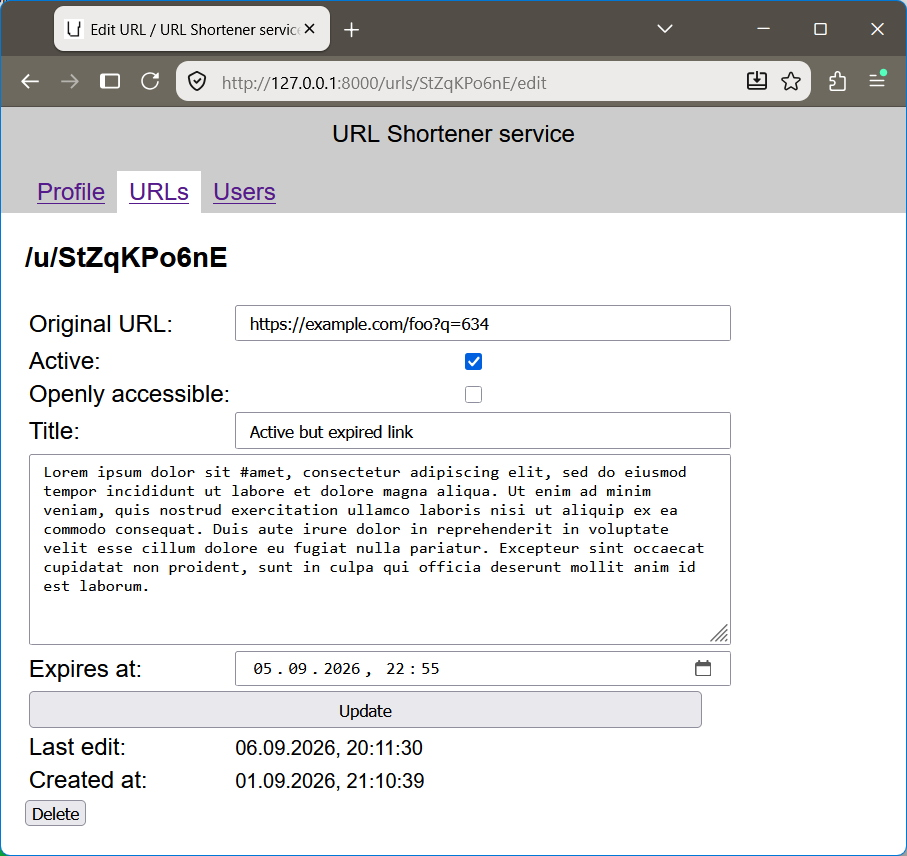
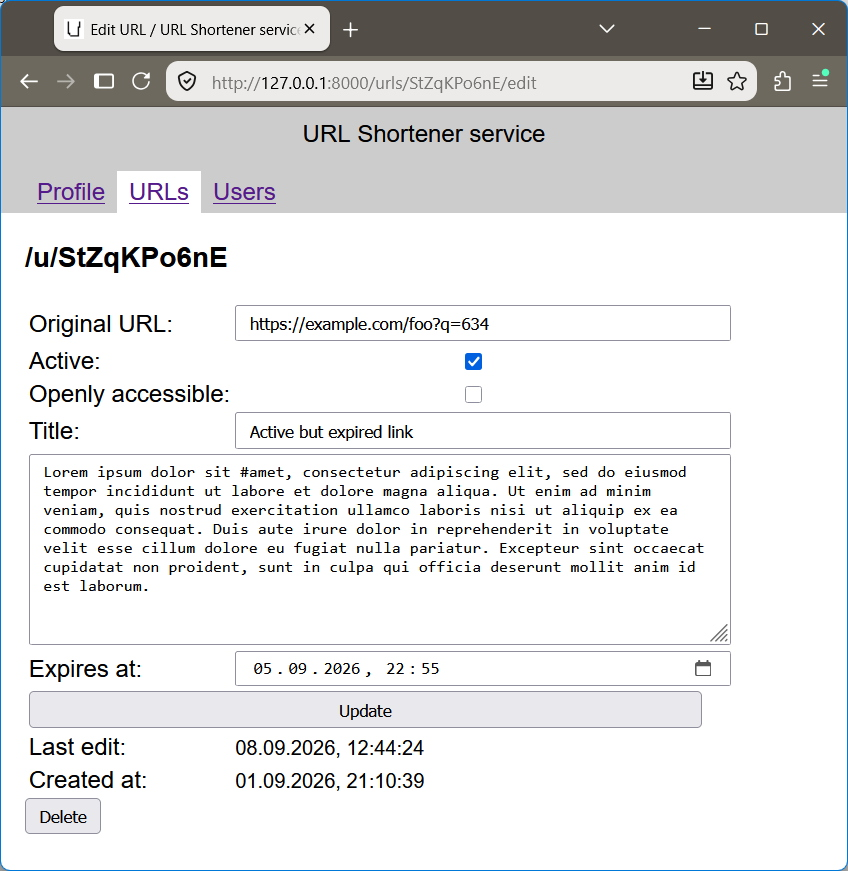
Frontend improvements + Minor backend corrections

diff --git a/frontend/user/url-list.html b/frontend/user/url-list.html
@@ -13,11 +13,14 @@
 
     .url-container li::marker {
         color: #f00;
-        font-size: 25pt;
+        font-size: 15pt;
+        font-weight: 600;
+        content: 'off ';
     }
 
     .url-container li[active]::marker {
-        color: #0f0;
+        color: #0d0;
+        content: 'on ';
     }
 
     .url-item {
@@ -58,6 +61,11 @@
 
     .sort-container input:checked + .sort-label .sort-arrow {
         clip-path: polygon(50% 0%, 0% 100%, 100% 100%);
+    }
+
+    a.ellipsis-text {
+        display: inline-block;
+        max-width: 50%;
     }
 </style>
 <script lang="javascript">
@@ -105,38 +113,43 @@
 {%- endblock -%}
 
 {%- block page_content -%}
-<button type="button" onclick="debug_add_url()">[DEBUG] Add a URL</button>
-<form method="get" action="/urls" autocomplete="off">
-    <input type="search" name="q" placeholder="Let's look for..." value="{{- query | e -}}" />
-    <select name="sort">
-        {%- macro sort_sel(id, title) -%}
-        <option value="{{ id }}"{{ ' selected' if id == sort else '' }}>{{ title }}</option>
-        {%- endmacro %}
-        {#- How can we use this with URL_SORTING_CRITERIA ? -#}
-        {{ sort_sel('id',      'URL ID')           }}
-        {{ sort_sel('created', 'Creation time')    }}
-        {{ sort_sel('updated', 'Last edit time')   }}
-        {{ sort_sel('expires', 'Expiration time')  }}
-        {{ sort_sel('title',   'Title')            }}
-        {{ sort_sel('url',     'Original address') }}
-    </select>
-    <label class="sort-container">
-        <input type="checkbox" name="asc" {{ 'checked' if sort_asc else '' }}>
-        <span class="sort-label">
-            <span class="sort-arrow"></span>
-        </span>
-    </label>
-    <input type="submit" value="Search!" />
-</form>
+<div>
+    <h3>
+        All links
+        <input type="button" onclick="debug_add_url()" value="[DEBUG] Add a URL">
+    </h3>
+</div>
+<div>
+    <form method="get" action="/urls" autocomplete="off">
+        <input type="search" name="q" placeholder="Let's look for..." value="{{- query | e -}}" />
+        <select name="sort">
+            {%- macro sort_sel(id, title) -%}
+            <option value="{{ id }}"{{ ' selected' if id == sort else '' }}>{{ title }}</option>
+            {%- endmacro %}
+            {#- How can we use this with URL_SORTING_CRITERIA ? -#}
+            {{ sort_sel('id',      'URL ID')           }}
+            {{ sort_sel('created', 'Creation time')    }}
+            {{ sort_sel('updated', 'Last edit time')   }}
+            {{ sort_sel('expires', 'Expiration time')  }}
+            {{ sort_sel('title',   'Title')            }}
+            {{ sort_sel('url',     'Original address') }}
+        </select>
+        <label class="sort-container">
+            <input type="checkbox" name="asc" {{ 'checked' if sort_asc else '' }}>
+            <span class="sort-label">
+                <span class="sort-arrow"></span>
+            </span>
+        </label>
+        <input type="submit" value="Search!" />
+    </form>
+</div>
 <ul class="url-container">
     {%- for url in urls -%}
         <li {% if url.is_active and (not url.expires_at or now_UTC < url.expires_at) %}active{% endif %}>
             <div class="url-item">
-                <div>
-                    {{- '🔓' if url.is_open_access else '🔒' -}}
+                <div class="ellipsis-text">
+                    {{- '🌍' if url.is_open_access else '🔒' -}}
                     <a href="/urls/{{- url.id -}}/overview"><code>[u/{{ url.id }}]</code> <span>{{ url.title | e }}</span></a>
-                    [<a href="/urls/{{- url.id -}}/edit">edit</a>]
-                    [<a href="/u/{{- url.id -}}" target="_blank" rel="noreferrer">visit</a>]
                 </div>
                 <div class="ellipsis-text">
                     <small class="url-item-description">
@@ -153,5 +166,10 @@
         <p>No addresses found.</p>
     {%- endfor -%}
 </ul>
-<p>Page: #{{ page + 1 }} @ {{ page_size }} links per page.</p>
+<p>
+    {% set search_suffix = ('&sort=' + sort if sort else '') + ('&asc=on' if sort_asc else '') + ('&q=' + query | e if query else '') %}
+    <a class="{{ 'hidden' if page == 0 else '' }}" href="/urls?p={{ page - 1 }}{{ search_suffix }}">&lArr; Prev</a>
+    Page #{{ page + 1 }}.
+    <a class="{{ 'hidden' if urls | length < page_size else '' }}" href="/urls?p={{ page + 1 }}{{ search_suffix }}">Next &rArr;</a>
+</p>
 {%- endblock -%}

diff --git a/frontend/user/profile.html b/frontend/user/profile.html
@@ -5,6 +5,12 @@
 {% block title %}Profile / {{ super() }}{% endblock %}
 
 {%- block head -%}
+<style>
+    table {
+        border: 1px solid #000;
+        padding: 15px;
+    }
+</style>
 <script lang="javascript">
     var patch_version = parseInt('{{ user.version }}');
 
@@ -66,26 +72,39 @@
 {%- endblock -%}
 
 {%- block page_content -%}
-<h4>Profile</h4>
-<p>Greetings, {{ user.name | e }}.</p>
-<form onsubmit="return update_profile(event);" autocomplete="off">
-    <div>
-        <label for="name">New name:</label>
-        <input type="text" name="name" placeholder="Your new name" />
-    </div>
-    <div>
-        <label for="email">New E-mail:</label>
-        <input type="email" name="email" placeholder="Your new email" />
-    </div>
-    <div>
-        <label for="password">New password:</label>
-        <input type="password" name="password" placeholder="Your new password" />
-    </div>
-    <input type="submit" value="Update">
-</form>
-<div id="msg"></div>
+<div>
+    <h3>Profile</h3>
+</div>
+<div>
+    <p>Greetings, {{ user.name | e }}.</p>
+    <form onsubmit="return update_profile(event);" autocomplete="off">
+        <table>
+            <tr>
+                <td>New name:</td>
+                <td><input type="text" name="name" placeholder="Your new name" /></td>
+            </tr>
+            <tr>
+                <td>New E-mail:</td>
+                <td><input type="email" name="email" placeholder="Your new email" /></td>
+            </tr>
+            <tr>
+                <td>New password:</td>
+                <td><input type="password" name="password" placeholder="Your new password" /></td>
+            </tr>
+            <tr>
+                <td colspan="2" style="height: 15px;"></td>
+            </tr>
+            <tr>
+                <td colspan="2"><input type="submit" value="Update" style="width: 100%;"></td>
+            </tr>
+        </table>
+    </form>
+    <div id="msg"></div>
+</div>
 <p>
-    <i>Last update: <script lang="javascript"> localize_time('{{- user.updated_at -}}'); </script></i>
+    <small>
+        <i>Last updated: <script lang="javascript"> localize_time('{{- user.updated_at -}}'); </script></i>
+    </small>
 </p>
 <form method="post" action="/api/v1/logout">
     <button type="submit">Log-out</button>

diff --git a/frontend/admin/user-list.html b/frontend/admin/user-list.html
@@ -4,15 +4,57 @@
 
 {% block title %}Users / {{ super() }}{% endblock %}
 
+{% block head %}
+<style>
+    .user-list {
+        column-count: 1;
+        gap: 2.5em;
+    }
+
+    @media (min-width: 27em) {
+        .user-list {
+            column-count: 2;
+        }
+    }
+
+    @media (min-width: 37em) {
+        .user-list {
+            column-count: 3;
+        }
+    }
+
+    @media (min-width: 47em) {
+        .user-list {
+            column-count: 4;
+        }
+    }
+
+    @media (min-width: 57em) {
+        .user-list {
+            column-count: 5;
+        }
+    }
+
+    .user-list li {
+        padding-bottom: 0.7em;
+    }
+</style>
+{% endblock %}
+
 {%- block page_content -%}
-<ul>
-    {%- for user in users -%}
+<div>
+    <h3>All users</h3>
+</div>
+<div>
+    <ul class="user-list">
+        {%- for user in users -%}
         <li>
-            <div>
+            <div class="ellipsis-text">
                 <a href="/user/{{- user.id -}}/profile">{{- user.name | e -}}</a>
             </div>
         </li>
-    {%- endfor -%}
-</ul>
-<p>Page: #{{ page + 1 }} @ {{ page_size }} links per page.</p>
+        {%- endfor -%}
+    </ul>
+    <p>Page: #{{ page + 1 }} @ {{ page_size }} links per page.</p>
+</div>
 {%- endblock -%}

diff --git a/frontend/user/url-overview.html b/frontend/user/url-overview.html
@@ -4,15 +4,42 @@
 
 {% block title %}URL Overview / {{ super() }}{% endblock %}
 
+{%- block head -%}
+<style>
+    td {
+        vertical-align: top;
+    }
+</style>
+{% endblock %}
+
 {%- block page_content -%}
+<div>
+    <h3>
+        Overview:
+        <a href="/urls/{{- url.id -}}/edit"><input type="button" value="Edit"></a>
+        <a href="/u/{{- url.id -}}" target="_blank" rel="noreferrer"><input type="button" value="Visit"></a>
+    </h3>
+</div>
+<div>
+    <table>
+        <tr>
+            <td>ID:</td>
+            <td>{{ url.id }}</td>
+        </tr>
+        <tr>
+            <td>Title:</td>
+            <td>{{ url.title | e }}</td>
+        </tr>
+        <tr>
+            <td>Description:</td>
+            <td><small>{{ url.description | e }}</small></td>
+        </tr>
+    </table>
+</div>
 <h3>
-    Overview:
+    Statistics:
 </h3>
-<p>
-    {{ url.id }}
-    {{ url.title }}
-    {{ url.description }}
-    {{ url.created_at }}
-    {{ url.updated_at }}
-</p>
+<div>
+    <p>TODO</p>
+</div>
 {%- endblock -%}

diff --git a/static/common.css b/static/common.css
@@ -45,7 +45,7 @@ nav {
     padding-bottom: 0.5em;
 }
 
-form input, form textarea {
+input, button, textarea, select {
     padding: 5px 10px;
 }
 

diff --git a/backend/frontend/urls.py b/backend/frontend/urls.py
@@ -1,4 +1,4 @@
-from typing import Annotated, Literal
+from typing import Annotated
 from uuid import UUID
 
 from fastapi import APIRouter, Depends, HTTPException, Path, Query, Request, status
@@ -31,7 +31,7 @@ async def url_search(
     query: Annotated[str, Query(alias='q')] = '',
     page: Annotated[str, Query(alias='p')] = '0',
     sort: Annotated[str, Query()] = 'updated',
-    asc: Annotated[Literal['off', 'on'], Query(pattern='on|off')] = 'off',
+    asc: Annotated[str, Query()] = 'off',
     user_id: Annotated[UUID | None, Query(min_length=1, max_length=38)] = None,  # MS GUID format
 ):
     # parameter cleanup
@@ -40,7 +40,7 @@ async def url_search(
     query      = query[:500].strip()
     sort       = sort.strip().lower()
     sort_asc   = asc == 'on'
-    page_size  = 50
+    page_size  = 20
 
     # access checks
     owner = user_id if user_id and user.is_superuser else user

diff --git a/backend/api/urls_primary.py b/backend/api/urls_primary.py
@@ -83,7 +83,7 @@ async def visit_url(
     if not await is_url_freely_accessible(url):
         session = await get_current_session(db, session_id)
         user    = await get_current_user(db, session)
-        if not user or not await can_url_be_visited_by(user, url):
+        if not await can_url_be_visited_by(user, url):
             return RedirectResponse(
                 url=f"{FRONTEND_LOGIN_PAGE}?{urlencode({ 'redirect': req.url.path })}",
                 status_code=status.HTTP_307_TEMPORARY_REDIRECT,

diff --git a/backend/api/v1/url.py b/backend/api/v1/url.py
@@ -61,8 +61,7 @@ async def edit_url(
     patch: Annotated[UrlUpdate, Body()],
     db: Annotated[AsyncSession, Depends(get_db_session)],
     user: Annotated[User, Depends(require_user)],
-    request: Request,  # noqa: ARG001
-    response: Response,  # noqa: ARG001
+    request: Request, response: Response,  # noqa: ARG001 - rate limiting
 ):
     # validation and access checks
     if (url := await find_url_by_id(db, url_id)) is None:

diff --git a/backend/api/v1/user.py b/backend/api/v1/user.py
@@ -44,8 +44,7 @@ async def edit_user_profile(
     patch: Annotated[UserUpdate, Body()],
     db: Annotated[AsyncSession, Depends(get_db_session)],
     user: Annotated[User, Depends(require_user)],
-    request: Request,  # noqa: ARG001
-    response: Response,  # noqa: ARG001
+    request: Request, response: Response,  # noqa: ARG001 - rate limiting
 ):
     # access checks
     if user_id != user.id and not user.is_superuser:
